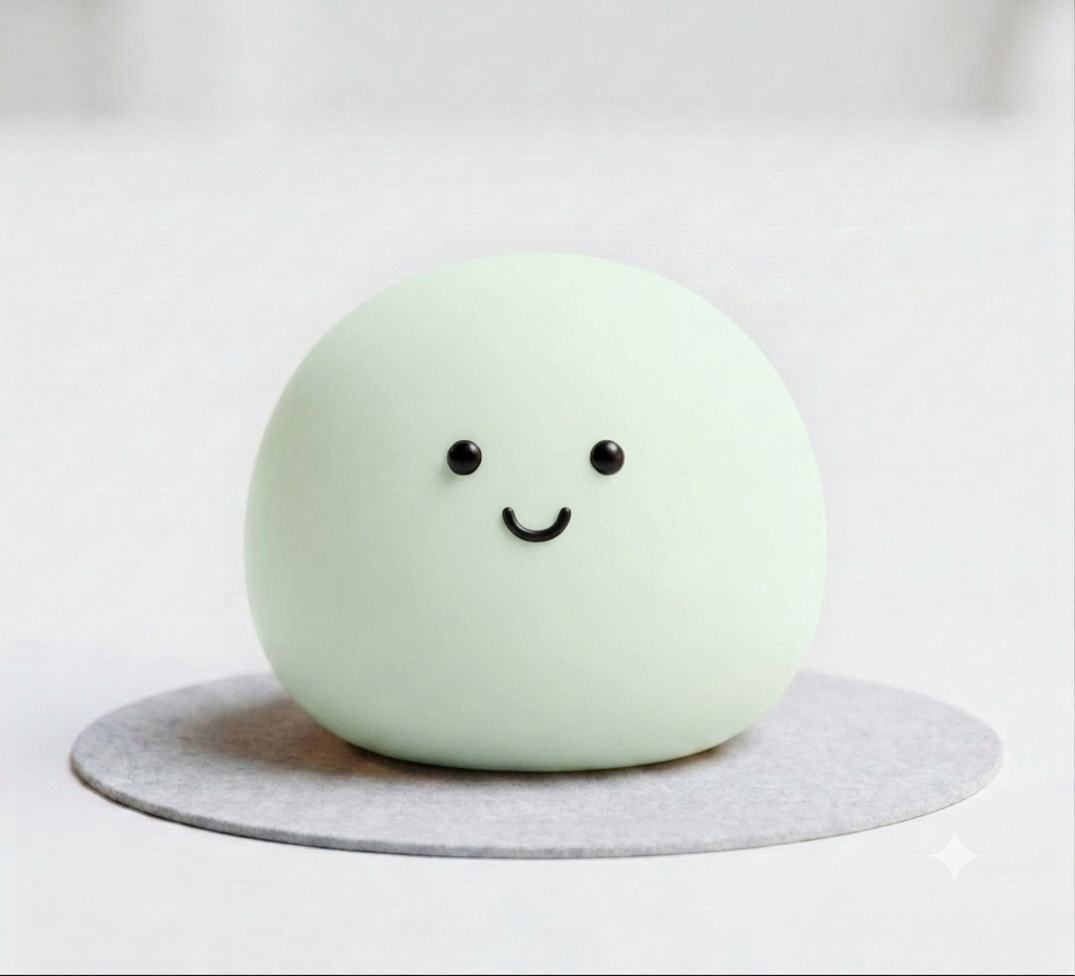
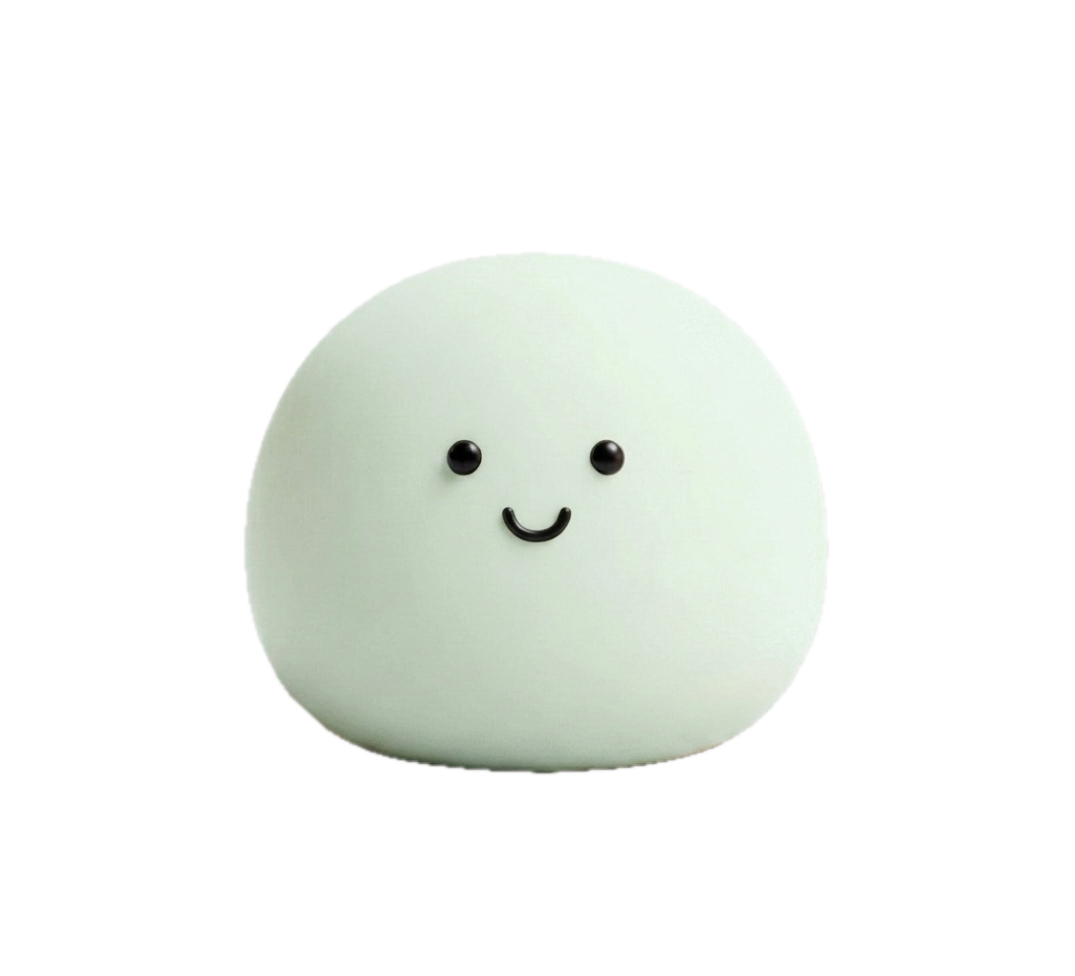
feat(diary): 주간 캘린더 + 3D 이미지 갱신·크기 맞춤 + 2D 지쳤어요 톤·도움말 정리
1) 스트레스 팝업 3D 말랑이 — 사용자가 수정한 투명 컷아웃 이미지로 갱신,
   '그냥저냥'만 캔버스를 꽉 채워 커 보이던 것을 무드별 스케일로 다른 무드와 크기 맞춤
   (배경 없어져 모서리 둥글림 제거, 컷아웃은 objectFit:contain으로 비율 유지)
2) 2D '지쳤어요' 채도를 낮춰 조금 더 연한 연분홍으로
3) '?' 도움말 팝업 문구 다듬기 — 과하게 약속하던 '언제 병원 갈지 알려줄게요'를
   담백한 안내로 교체, 좌측 로봇(🤖) 이모지 제거
4) 말랑 다이어리 우측 상단에 월간/주간 전환 아이콘 추가
   - 주간 보기는 현재 주가 첫 화면, 요일별 카드로 그날 기록(기분·불편·운동·수면·일기)을
     한눈에 보여주고, 주 이동(‹ ›) + 월간 복귀 아이콘 제공

diff --git a/src/components/DiaryCalendar.jsx b/src/components/DiaryCalendar.jsx
@@ -28,6 +28,8 @@ const weekdayColor = (dow) => (dow === 0 ? SUN_RED : dow === 6 ? SAT_BLUE : null
 
 export default function DiaryCalendar({ onPickMood, onEditDay, bmtiCode, isLoggedIn, onRequireLogin }) {
   const [cursor, setCursor] = useState(() => new Date());
+  const [view, setView] = useState("month"); // "month" | "week"
+  const [weekAnchor, setWeekAnchor] = useState(() => new Date()); // 주간 보기에서 보고 있는 주의 아무 날짜
   const [showDatePicker, setShowDatePicker] = useState(false);
   const [showHelp, setShowHelp] = useState(false);
   const t = getTypeAccent(bmtiCode);
@@ -45,6 +47,25 @@ export default function DiaryCalendar({ onPickMood, onEditDay, bmtiCode, isLogge
 
   const history = getDiaryHistory();
   const entryCountThisMonth = history.filter(e => e.date.startsWith(monthKey)).length;
+
+  // ── 주간 보기 계산 ──
+  const toISO = (d) => `${d.getFullYear()}-${pad(d.getMonth() + 1)}-${pad(d.getDate())}`;
+  const startOfWeek = (d) => { const x = new Date(d); x.setHours(0, 0, 0, 0); x.setDate(x.getDate() - x.getDay()); return x; };
+  const weekStart = startOfWeek(weekAnchor);
+  const weekDays = Array.from({ length: 7 }, (_, i) => { const x = new Date(weekStart); x.setDate(x.getDate() + i); return x; });
+  const weekEnd = weekDays[6];
+  const minWeekStart = startOfWeek(new Date(MIN_YEAR, MIN_MONTH - 1, 1));
+  const curWeekStart = startOfWeek(new Date());
+  const canPrevWeek = weekStart > minWeekStart;
+  const canNextWeek = weekStart < curWeekStart;
+  const shiftWeek = (delta) => { const x = new Date(weekAnchor); x.setDate(x.getDate() + delta * 7); setWeekAnchor(x); };
+  const weekEntryCount = weekDays.filter(d => history.some(e => e.date === toISO(d))).length;
+  const weekTitle = weekStart.getMonth() === weekEnd.getMonth()
+    ? `${weekStart.getMonth() + 1}월 ${weekStart.getDate()}일 – ${weekEnd.getDate()}일`
+    : `${weekStart.getMonth() + 1}월 ${weekStart.getDate()}일 – ${weekEnd.getMonth() + 1}월 ${weekEnd.getDate()}일`;
+
+  const goWeekView = () => { setWeekAnchor(new Date()); setView("week"); };
+  const goMonthView = () => { setCursor(new Date(weekAnchor.getFullYear(), weekAnchor.getMonth(), 1)); setView("month"); };
 
   // 오늘 기분 팝업 — 오늘 기록이 없으면 탭에 들어오자마자 자동으로 뜬다.
   const [showMoodPopup, setShowMoodPopup] = useState(() => !getEntryForDate(todayISO()));
@@ -110,18 +131,64 @@ export default function DiaryCalendar({ onPickMood, onEditDay, bmtiCode, isLogge
             ?
           </button>
 
+          {/* 우측 상단 — 월간/주간 보기 전환 */}
+          <button
+            onClick={view === "month" ? goWeekView : goMonthView}
+            aria-label={view === "month" ? "주간 캘린더 보기" : "월간 캘린더 보기"}
+            style={{ position: "absolute", right: 0, top: 0, width: 32, height: 32, borderRadius: "50%", border: `1.5px solid ${C.line}`, background: "transparent", color: t.accentDeep, cursor: "pointer", display: "flex", alignItems: "center", justifyContent: "center" }}
+          >
+            {view === "month" ? <IconWeek /> : <IconMonth />}
+          </button>
+
           <div style={{ fontSize: 13, fontWeight: 800, color: C.sub, letterSpacing: "-0.01em", marginBottom: 6 }}>말랑 다이어리</div>
 
-          <button
-            onClick={() => setShowDatePicker(true)}
-            style={{ display: "inline-flex", alignItems: "center", gap: 6, border: "none", background: "transparent", cursor: "pointer", padding: "4px 8px" }}
-          >
-            <h1 style={{ fontSize: 26, fontWeight: 800, margin: 0, letterSpacing: "-0.02em", color: C.ink }}>{year}년 {month + 1}월</h1>
-            <span style={{ fontSize: 12, color: C.sub, transform: "translateY(1px)" }}>▼</span>
-          </button>
-          <p style={{ fontSize: 13.5, color: C.sub, margin: "8px 0 0" }}>총 {entryCountThisMonth}일 기록했어요</p>
+          {view === "month" ? (
+            <>
+              <button
+                onClick={() => setShowDatePicker(true)}
+                style={{ display: "inline-flex", alignItems: "center", gap: 6, border: "none", background: "transparent", cursor: "pointer", padding: "4px 8px" }}
+              >
+                <h1 style={{ fontSize: 26, fontWeight: 800, margin: 0, letterSpacing: "-0.02em", color: C.ink }}>{year}년 {month + 1}월</h1>
+                <span style={{ fontSize: 12, color: C.sub, transform: "translateY(1px)" }}>▼</span>
+              </button>
+              <p style={{ fontSize: 13.5, color: C.sub, margin: "8px 0 0" }}>총 {entryCountThisMonth}일 기록했어요</p>
+            </>
+          ) : (
+            <>
+              <div style={{ display: "inline-flex", alignItems: "center", justifyContent: "center", gap: 4 }}>
+                <button onClick={() => canPrevWeek && shiftWeek(-1)} disabled={!canPrevWeek} aria-label="이전 주" style={{ border: "none", background: "transparent", color: canPrevWeek ? C.ink : "#D8D3C8", fontSize: 18, cursor: canPrevWeek ? "pointer" : "default", padding: "2px 8px" }}>‹</button>
+                <h1 style={{ fontSize: 21, fontWeight: 800, margin: 0, letterSpacing: "-0.02em", color: C.ink, minWidth: 150, textAlign: "center" }}>{weekTitle}</h1>
+                <button onClick={() => canNextWeek && shiftWeek(1)} disabled={!canNextWeek} aria-label="다음 주" style={{ border: "none", background: "transparent", color: canNextWeek ? C.ink : "#D8D3C8", fontSize: 18, cursor: canNextWeek ? "pointer" : "default", padding: "2px 8px" }}>›</button>
+              </div>
+              <p style={{ fontSize: 13.5, color: C.sub, margin: "8px 0 0" }}>이번 주 {weekEntryCount}일 기록했어요</p>
+            </>
+          )}
         </div>
 
+        {view === "week" ? (
+          <div style={{ display: "flex", flexDirection: "column", gap: 10 }}>
+            {weekDays.map((d, i) => {
+              const dateStr = toISO(d);
+              const entry = getEntryForDate(dateStr);
+              const locked = isEntryLocked(dateStr);
+              const writable = isDayWritable(dateStr);
+              const isToday = dateStr === todayStr;
+              const clickable = (entry && !locked) || (!entry && writable);
+              const onClick = () => {
+                if (entry && !locked) setPreviewDay({ dateStr, entry });
+                else if (!entry && writable) onEditDay && onEditDay(dateStr, null);
+              };
+              return (
+                <WeekDayRow
+                  key={i} date={d} dow={d.getDay()} entry={entry} isToday={isToday}
+                  writable={writable} clickable={clickable} onClick={onClick}
+                  items={entry ? buildEntrySummary(entry) : []} t={t}
+                />
+              );
+            })}
+          </div>
+        ) : (
+        <>
         {/* 요일 */}
         <div style={{ display: "grid", gridTemplateColumns: "repeat(7, 1fr)", marginBottom: 6 }}>
           {WEEKDAYS.map((w, i) => (
@@ -175,6 +242,8 @@ export default function DiaryCalendar({ onPickMood, onEditDay, bmtiCode, isLogge
             );
           })}
         </div>
+        </>
+        )}
 
         <div style={{ flex: 1 }} />
       </div>
@@ -304,6 +373,78 @@ export default function DiaryCalendar({ onPickMood, onEditDay, bmtiCode, isLogge
           </div>
         );
       })()}
+    </div>
+  );
+}
+
+// 월간/주간 전환 아이콘
+const IconWeek = () => (
+  <svg width="17" height="17" viewBox="0 0 24 24" fill="none">
+    <rect x="3.5" y="4.5" width="17" height="15" rx="3" stroke="currentColor" strokeWidth="1.7" />
+    <circle cx="7.2" cy="9.2" r="1.15" fill="currentColor" /><path d="M10 9.2h8" stroke="currentColor" strokeWidth="1.7" strokeLinecap="round" />
+    <circle cx="7.2" cy="13" r="1.15" fill="currentColor" /><path d="M10 13h8" stroke="currentColor" strokeWidth="1.7" strokeLinecap="round" />
+    <circle cx="7.2" cy="16.8" r="1.15" fill="currentColor" /><path d="M10 16.8h5.5" stroke="currentColor" strokeWidth="1.7" strokeLinecap="round" />
+  </svg>
+);
+const IconMonth = () => (
+  <svg width="17" height="17" viewBox="0 0 24 24" fill="none">
+    <rect x="3.5" y="4.5" width="17" height="15" rx="3" stroke="currentColor" strokeWidth="1.7" />
+    <path d="M3.5 9.5h17M9.2 9.5v10M14.8 9.5v10" stroke="currentColor" strokeWidth="1.5" />
+  </svg>
+);
+
+// ── 주간 보기의 하루 카드 — 그날 기록한 정보를 한눈에 ──
+function WeekDayRow({ date, dow, entry, isToday, writable, clickable, onClick, items, t }) {
+  const today = new Date(); today.setHours(0, 0, 0, 0);
+  const future = date > today;
+  const dayColor = weekdayColor(dow) || C.ink;
+  const moodLabel = entry ? (MOODS.find(m => m.v === entry.mood)?.label) : null;
+  const shown = items.slice(0, 4);
+  return (
+    <div
+      onClick={clickable ? onClick : undefined}
+      style={{
+        display: "flex", alignItems: "center", gap: 12, padding: "12px 14px", borderRadius: 16,
+        border: `1px solid ${isToday ? t.accent : C.line}`, background: isToday ? t.accentSoft : "#fff",
+        cursor: clickable ? "pointer" : "default", opacity: future ? 0.55 : 1, minHeight: 62,
+      }}
+    >
+      {/* 날짜 */}
+      <div style={{ width: 34, flexShrink: 0, textAlign: "center" }}>
+        <div style={{ fontSize: 11, fontWeight: 800, color: weekdayColor(dow) || C.sub }}>{WEEKDAYS[dow]}</div>
+        <div style={{ fontSize: 19, fontWeight: 800, color: dayColor, marginTop: 1 }}>{date.getDate()}</div>
+      </div>
+
+      {/* 무드 */}
+      <div style={{ width: 40, flexShrink: 0, display: "flex", justifyContent: "center" }}>
+        {entry ? <Mallang v={entry.mood} size={38} /> : <div style={{ width: 34, height: 34, borderRadius: "50%", border: `1.5px dashed ${C.line}` }} />}
+      </div>
+
+      {/* 요약 */}
+      <div style={{ flex: 1, minWidth: 0 }}>
+        {entry ? (
+          <>
+            <div style={{ fontSize: 13.5, fontWeight: 800, color: C.ink }}>{moodLabel}</div>
+            {shown.length > 0 ? (
+              <div style={{ display: "flex", flexWrap: "wrap", gap: 5, marginTop: 5 }}>
+                {shown.map((it, i) => (
+                  <span key={i} style={{ display: "inline-flex", alignItems: "center", gap: 4, background: "#FBFAF6", border: `1px solid ${C.line}`, borderRadius: 8, padding: "3px 7px", maxWidth: 168 }}>
+                    <span style={{ display: "flex", flexShrink: 0 }}><DiaryIcon name={it.icon} size={13} /></span>
+                    <span style={{ fontSize: 11, color: C.sub, fontWeight: 600, overflow: "hidden", textOverflow: "ellipsis", whiteSpace: "nowrap" }}>{it.text}</span>
+                  </span>
+                ))}
+                {items.length > 4 && <span style={{ fontSize: 11, color: C.sub, fontWeight: 700, alignSelf: "center" }}>+{items.length - 4}</span>}
+              </div>
+            ) : (
+              <div style={{ fontSize: 11.5, color: C.sub, fontWeight: 600, marginTop: 3 }}>기분만 짧게 남긴 날이에요</div>
+            )}
+          </>
+        ) : (
+          <div style={{ fontSize: 12.5, color: writable ? t.accentDeep : C.sub, fontWeight: 700 }}>
+            {future ? "아직 다가오지 않은 날" : writable ? "아직 기록이 없어요 · 눌러서 남겨요" : "기록 없음"}
+          </div>
+        )}
+      </div>
     </div>
   );
 }

diff --git a/src/components/DiaryHelpPopup.jsx b/src/components/DiaryHelpPopup.jsx
@@ -23,27 +23,27 @@ const STEPS = [
   },
   {
     id: "lazy",
-    badge: "⏱ 하루 10초",
-    me: "몸이 계속 무겁긴 한데...\n뭘 또 챙겨야 한다고 생각하니 벌써 지쳐요 🥲",
-    bot: "뭘 챙기라고 안 할게요.\n그냥 오늘 어땠는지만 알려주세요.\n10초면 충분해요. 나머지는 제가 기억할게요. 🧠",
+    badge: "⏱ 하루 10초면 충분해요",
+    me: "몸은 계속 무거운데,\n뭘 또 챙기려니 벌써 지쳐요 🥲",
+    bot: "따로 챙기실 건 없어요.\n오늘 몸이 어땠는지만 남겨주세요.\n나머지는 제가 기억해둘게요.",
   },
   {
     id: "blame",
     badge: "🌱 당신 탓이 아니에요",
-    me: "운동도 해봤고 앱도 깔아봤는데\n결국 다 흐지부지됐어요...",
-    bot: "지금까지 잘 안 됐던 건, 의지 탓이 아니에요.\n남들 방식에 나를 맞추려 했을 뿐이죠.\n\n성격이 다 다르듯,\n내 몸에 맞는 방식은 따로 있어요.",
+    me: "운동도 앱도 해봤는데,\n늘 흐지부지됐어요…",
+    bot: "잘 안 됐던 건 의지 문제가 아니에요.\n남의 방식에 나를 맞추려 했을 뿐이죠.\n\n사람마다 다르듯,\n내 몸에 맞는 방식은 따로 있어요.",
   },
   {
     id: "safety",
     badge: "🏥 건강이 먼저예요",
-    me: "요즘 목이 계속 뻐근한데...\n이거 괜찮은 걸까요?",
-    bot: "저는 의사가 아니라, 진단은 못 해요.\n많이 아플 땐 병원에 먼저 가주세요. 🏥\n\n대신 언제 병원에 가야 할지는\n꼭 알려드릴게요.",
+    me: "요즘 목이 계속 뻐근한데,\n괜찮은 걸까요?",
+    bot: "저는 의사가 아니라 진단은 해드릴 수 없어요.\n심하게 아프거나 오래간다면\n병원에서 꼭 확인해 주세요. 🏥\n\n여기선 몸이 보내는 작은 신호를\n같이 살펴볼게요.",
   },
   {
     id: "secret",
     badge: "🔒 여기만의 이야기",
-    me: "근데 이거... 다른 사람이 볼 수도 있어요? 👀",
-    bot: "여기 남긴 이야기는 아무에게도 보이지 않아요.\n오직 당신과 저만 아는 비밀이에요. 🔒",
+    me: "이거… 다른 사람도 볼 수 있어요? 👀",
+    bot: "여기 남긴 이야기는 아무에게도 보이지 않아요.\n오직 나만 볼 수 있는 기록이에요.",
   },
 ];
 
@@ -91,9 +91,8 @@ export default function DiaryHelpPopup({ onClose, isLoggedIn, onRequireLogin }) 
                   {step.me}
                 </div>
               </div>
-              <div style={{ display: "flex", gap: 8, alignItems: "flex-end" }}>
-                <div style={{ width: 30, height: 30, borderRadius: "50%", background: t.accentSoft, display: "flex", alignItems: "center", justifyContent: "center", fontSize: 14, flexShrink: 0 }}>🤖</div>
-                <div style={{ maxWidth: "85%", background: YELLOW, border: `1px solid ${YELLOW_LINE}`, borderRadius: "18px 18px 18px 4px", padding: "13px 15px", fontSize: 13.5, lineHeight: 1.65, whiteSpace: "pre-line" }}>
+              <div style={{ display: "flex", justifyContent: "flex-start" }}>
+                <div style={{ maxWidth: "88%", background: YELLOW, border: `1px solid ${YELLOW_LINE}`, borderRadius: "18px 18px 18px 4px", padding: "13px 15px", fontSize: 13.5, lineHeight: 1.65, whiteSpace: "pre-line" }}>
                   {step.bot}
                 </div>
               </div>

diff --git a/src/lib/mallangSkins.js b/src/lib/mallangSkins.js
@@ -22,13 +22,14 @@ export const MALLANG_SKINS = {
   default: { label: "기본 말랑이", images: null }, // SVG 폴백(현재 미사용, 안전용)
 };
 
-// 배경이 있는(투명 아님) 3D 이미지는 모서리를 둥글려 카드처럼 보이게 한다.
-export const MALLANG_IMG_RADIUS = { malang3d: "20%" };
+// 3D 말랑이는 배경 없는 투명 컷아웃이라 별도 모서리 둥글림이 필요 없다.
+export const MALLANG_IMG_RADIUS = {};
 
 // 스킨별 전체 표시 크기 보정.
+// malang3d의 '그냥저냥'만 캔버스를 꽉 채워 그려져 다른 무드보다 커 보이므로, 그 무드만 줄여 맞춘다.
 export const MALLANG_SIZE_ADJUST = {
   malang2d: { base: 1.45 }, // 세로로 긴 캔버스라 얼굴이 작게 잡혀 조금 키운다
-  malang3d: { base: 1.12 },
+  malang3d: { base: 1.12, moods: { 3: 0.68 } },
 };
 
 // 무드별 눈 위치(캔버스 대비 비율) — 기본 말랑이처럼 감았다 뜨는 깜빡임을 위해
@@ -52,8 +53,9 @@ export const MALLANG_MOOD_FILTER = {
 
 const NO_FILTER = { 1: "none", 2: "none", 3: "none", 4: "none", 5: "none" };
 // 2D·3D 말랑이는 무드별로 이미 색이 다르게 그려져 있어 추가 필터를 걸지 않는다.
+// 단, 2D '지쳤어요'는 채도를 낮춰 조금 더 연한 연분홍으로 보이게 한다.
 export const MALLANG_MOOD_FILTER_OVERRIDE = {
-  malang2d: NO_FILTER,
+  malang2d: { ...NO_FILTER, 2: "saturate(0.5) brightness(1.05)" },
   malang3d: NO_FILTER,
 };
 

diff --git a/src/components/Mallang.jsx b/src/components/Mallang.jsx
@@ -42,7 +42,7 @@ export function Mallang({ v, size = 44, tapKey = 0, skinOverride }) {
             src={src}
             alt=""
             className="mallang-squish"
-            style={{ width: "100%", height: "100%", display: "block", transformOrigin: "50% 100%", borderRadius: MALLANG_IMG_RADIUS[effectiveSkin] || 0 }}
+            style={{ width: "100%", height: "100%", display: "block", transformOrigin: "50% 100%", objectFit: eye ? "fill" : "contain", borderRadius: MALLANG_IMG_RADIUS[effectiveSkin] || 0 }}
           />
           {eye && (
             <span
